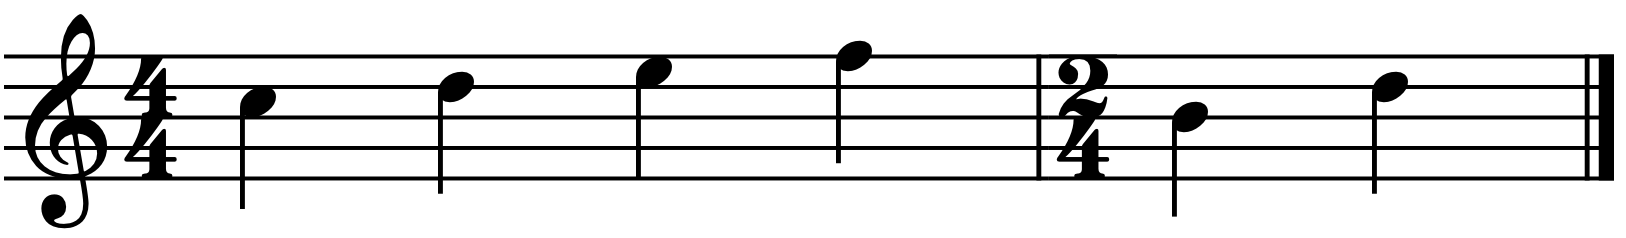
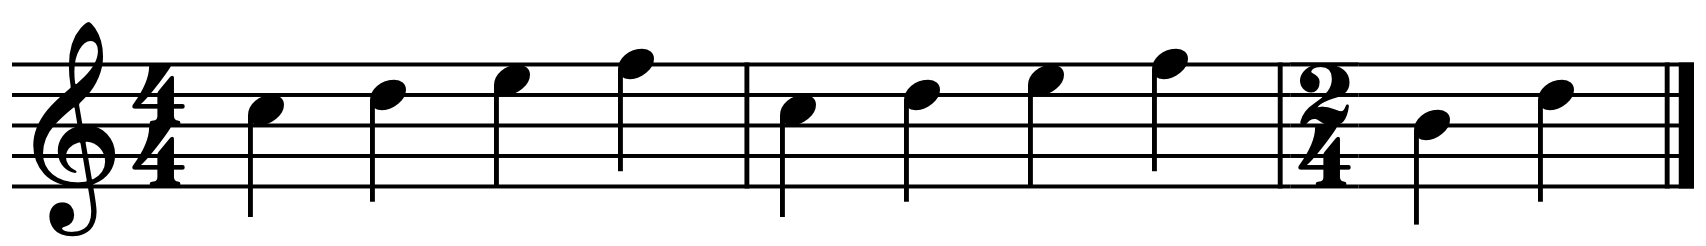
Automated update of GitHub Pages: 55eb04df83fc7ede7b5f2747f09bd2c2e17011f8

Changed region(s): [[0.0, 0.0588, 1.0, 0.9706]]

diff --git a/by-example/by-example/index.html b/by-example/by-example/index.html
@@ -674,7 +674,7 @@ a {
     <div class="center">
     <h2>Time signatures</h2>
     <img class="exampleimg" src="images/example05.png">
-    <p class="examplenotes">In MusicXML, each part’s <code>&lt;measure&gt;</code> can contain an <code>&lt;attributes&gt;</code> element with an optional <code>&lt;time&gt;</code>. MNX-Common uses a score-wide <code>&lt;global&gt;</code> element. MNX-Common also uses a “microsyntax” — e.g., <code>4/4</code> for common time — for brevity.</p>
+    <p class="examplenotes">In MusicXML, each part’s <code>&lt;measure&gt;</code> can contain an <code>&lt;attributes&gt;</code> element with an optional <code>&lt;time&gt;</code>. MNX-Common uses a score-wide <code>&lt;global&gt;</code> element. MNX-Common also uses a “microsyntax” — e.g., <code>4/4</code> for common time — for brevity. In both cases, you only specify the time signature when it differs from the previous bar.</p>
     <p class="showui">Show:
         <label><input type="radio" name="toggle5" class="switchdiff" data-example="5" value="1" checked> Relevant section</label>
         <label><input type="radio" name="toggle5" class="switchdiff" data-example="5" value="2"> Full document</label>
@@ -706,6 +706,40 @@ a {
                 &lt;/clef&gt;
 </div><div class="diff">            &lt;/attributes&gt;
 </div><div class="nodiff">            &lt;note&gt;
+                &lt;pitch&gt;
+                    &lt;step&gt;C&lt;/step&gt;
+                    &lt;octave&gt;5&lt;/octave&gt;
+                &lt;/pitch&gt;
+                &lt;duration&gt;256&lt;/duration&gt;
+                &lt;type&gt;quarter&lt;/type&gt;
+            &lt;/note&gt;
+            &lt;note&gt;
+                &lt;pitch&gt;
+                    &lt;step&gt;D&lt;/step&gt;
+                    &lt;octave&gt;5&lt;/octave&gt;
+                &lt;/pitch&gt;
+                &lt;duration&gt;256&lt;/duration&gt;
+                &lt;type&gt;quarter&lt;/type&gt;
+            &lt;/note&gt;
+            &lt;note&gt;
+                &lt;pitch&gt;
+                    &lt;step&gt;E&lt;/step&gt;
+                    &lt;octave&gt;5&lt;/octave&gt;
+                &lt;/pitch&gt;
+                &lt;duration&gt;256&lt;/duration&gt;
+                &lt;type&gt;quarter&lt;/type&gt;
+            &lt;/note&gt;
+            &lt;note&gt;
+                &lt;pitch&gt;
+                    &lt;step&gt;F&lt;/step&gt;
+                    &lt;octave&gt;5&lt;/octave&gt;
+                &lt;/pitch&gt;
+                &lt;duration&gt;256&lt;/duration&gt;
+                &lt;type&gt;quarter&lt;/type&gt;
+            &lt;/note&gt;
+        &lt;/measure&gt;
+        &lt;measure&gt;
+            &lt;note&gt;
                 &lt;pitch&gt;
                     &lt;step&gt;C&lt;/step&gt;
                     &lt;octave&gt;5&lt;/octave&gt;
@@ -776,6 +810,7 @@ a {
                         &lt;time signature="4/4"/&gt;
                     &lt;/directions&gt;
                 &lt;/measure&gt;
+                &lt;measure/&gt;
                 &lt;measure&gt;
                     &lt;directions&gt;
                         &lt;time signature="2/4"/&gt;
@@ -789,6 +824,22 @@ a {
                         &lt;directions&gt;
                             &lt;clef sign="G" line="2"/&gt;
                         &lt;/directions&gt;
+                        &lt;event value="/4"&gt;
+                            &lt;note pitch="C5"/&gt;
+                        &lt;/event&gt;
+                        &lt;event value="/4"&gt;
+                            &lt;note pitch="D5"/&gt;
+                        &lt;/event&gt;
+                        &lt;event value="/4"&gt;
+                            &lt;note pitch="E5"/&gt;
+                        &lt;/event&gt;
+                        &lt;event value="/4"&gt;
+                            &lt;note pitch="F5"/&gt;
+                        &lt;/event&gt;
+                    &lt;/sequence&gt;
+                &lt;/measure&gt;
+                &lt;measure&gt;
+                    &lt;sequence&gt;
                         &lt;event value="/4"&gt;
                             &lt;note pitch="C5"/&gt;
                         &lt;/event&gt;

diff --git a/specification/common/index.html b/specification/common/index.html
@@ -1213,7 +1213,7 @@ Possible extra rowspan handling
 	}
 </style>
   <meta content="Bikeshed version 450e0499b28bb4c684052ad936ad1e7d36c4eac5" name="generator">
-  <meta content="22c5f288eff9542c77dc9d6f988997b809e148b1" name="document-revision">
+  <meta content="55eb04df83fc7ede7b5f2747f09bd2c2e17011f8" name="document-revision">
 <style>
   .language-xml {
     font-size: 11px;

diff --git a/specification/generic/index.html b/specification/generic/index.html
@@ -1213,7 +1213,7 @@ Possible extra rowspan handling
 	}
 </style>
   <meta content="Bikeshed version 450e0499b28bb4c684052ad936ad1e7d36c4eac5" name="generator">
-  <meta content="22c5f288eff9542c77dc9d6f988997b809e148b1" name="document-revision">
+  <meta content="55eb04df83fc7ede7b5f2747f09bd2c2e17011f8" name="document-revision">
 <style>
   .language-xml {
     font-size: 11px;
